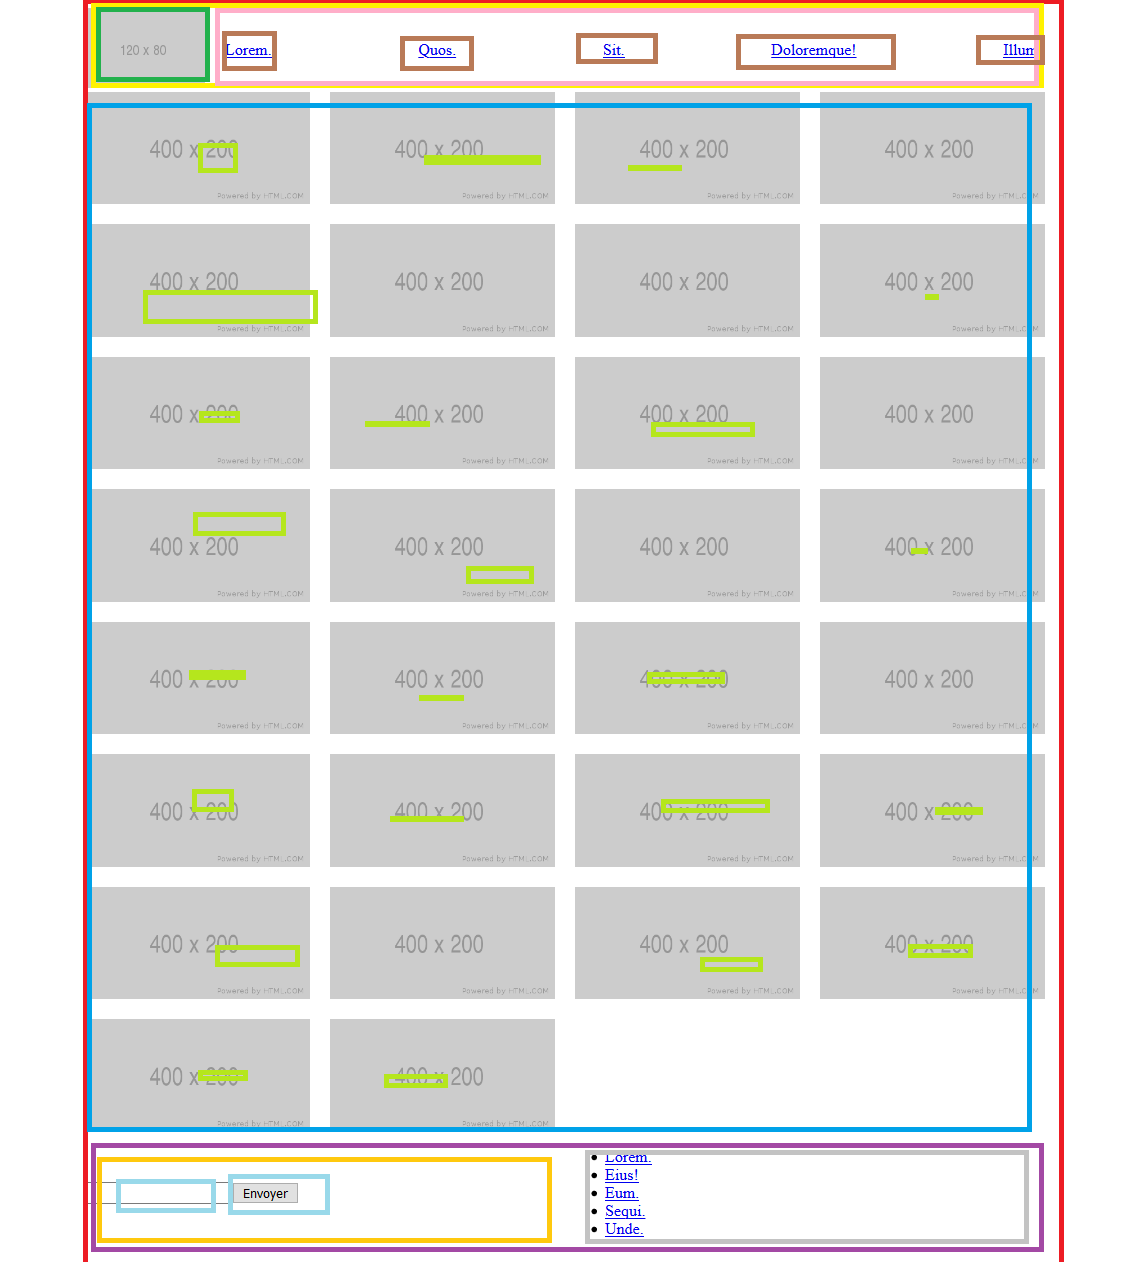
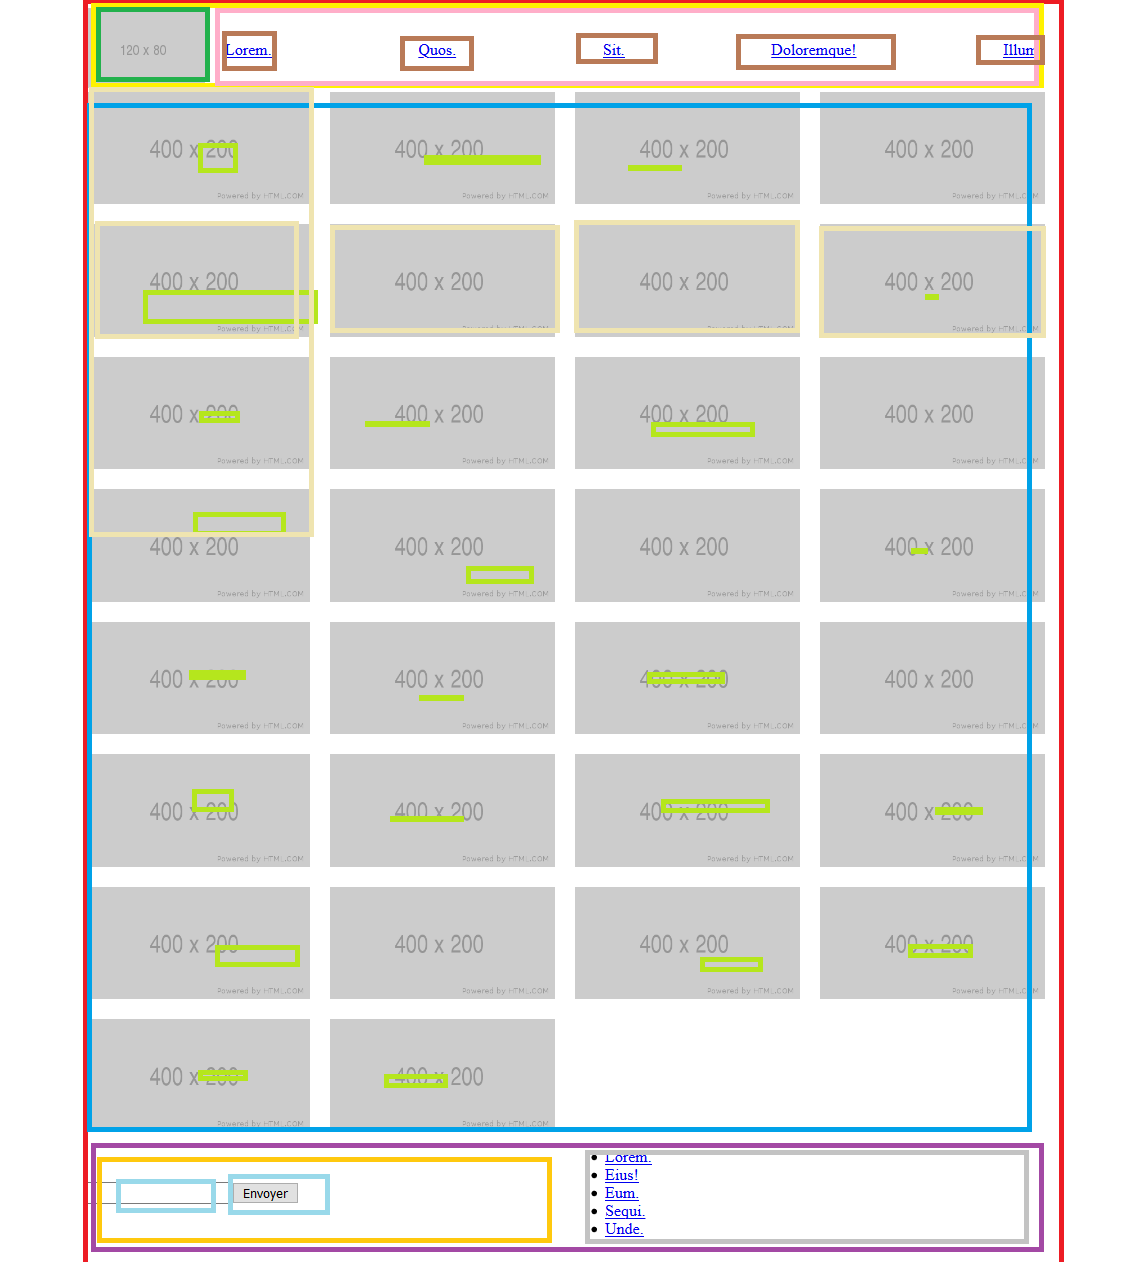
correction exo 4

Changed region(s): [[0.0619, 0.0618, 0.9292, 0.4326]]

diff --git a/jour1/04-exo.html b/jour1/04-exo.html
@@ -1,0 +1,38 @@
+<!DOCTYPE html>
+<html lang="en">
+<head>
+    <meta charset="UTF-8">
+    <meta http-equiv="X-UA-Compatible" content="IE=edge">
+    <meta name="viewport" content="width=device-width, initial-scale=1.0">
+    <title>correction exo 4</title>
+    <link rel="stylesheet" href="04-style.css">
+</head>
+<body>
+    <div class="container">
+        <article>
+            <h2>Lorem, ipsum dolor.</h2>
+            <img src="http://via.placeholder.com/900x200" alt="">
+        </article>
+        <article>
+            <h2>Lorem, ipsum dolor.</h2>
+            <img src="http://via.placeholder.com/900x200" alt="">
+        </article>
+        <article>
+            <h2>Lorem, ipsum dolor.</h2>
+            <img src="http://via.placeholder.com/900x200" alt="">
+        </article>
+        <article>
+            <h2>Lorem, ipsum dolor.</h2>
+            <img src="http://via.placeholder.com/900x200" alt="">
+        </article>
+        <article>
+            <h2>Lorem, ipsum dolor.</h2>
+            <img src="http://via.placeholder.com/900x200" alt="">
+        </article>
+        <article>
+            <h2>Lorem, ipsum dolor.</h2>
+            <img src="http://via.placeholder.com/900x200" alt="">
+        </article>
+    </div>
+</body>
+</html>

diff --git a/jour1/03-style.css b/jour1/03-style.css
@@ -43,3 +43,12 @@ footer{
 footer form , footer ul{
     width: 50%;
 }
+
+/* 
+Cascading StyleSheet règle css qui vont avoir un effet sur d'une éléments quelle même
+largeur des balises 
+
+créer le fichier 04-exo.html et 04-style.css réaliser dans ces deux fichiers le design suivant : 
+
+rdv 15h45 bon café !! 
+*/

diff --git a/jour1/04-style.css b/jour1/04-style.css
@@ -1,0 +1,11 @@
+.container{
+    width:1000px;
+    margin: 0 auto;
+    display: grid;
+    grid-template-columns: repeat(2, 1fr );
+    grid-gap: 20px;
+}
+
+.container article img{
+    width: 100%;
+}
